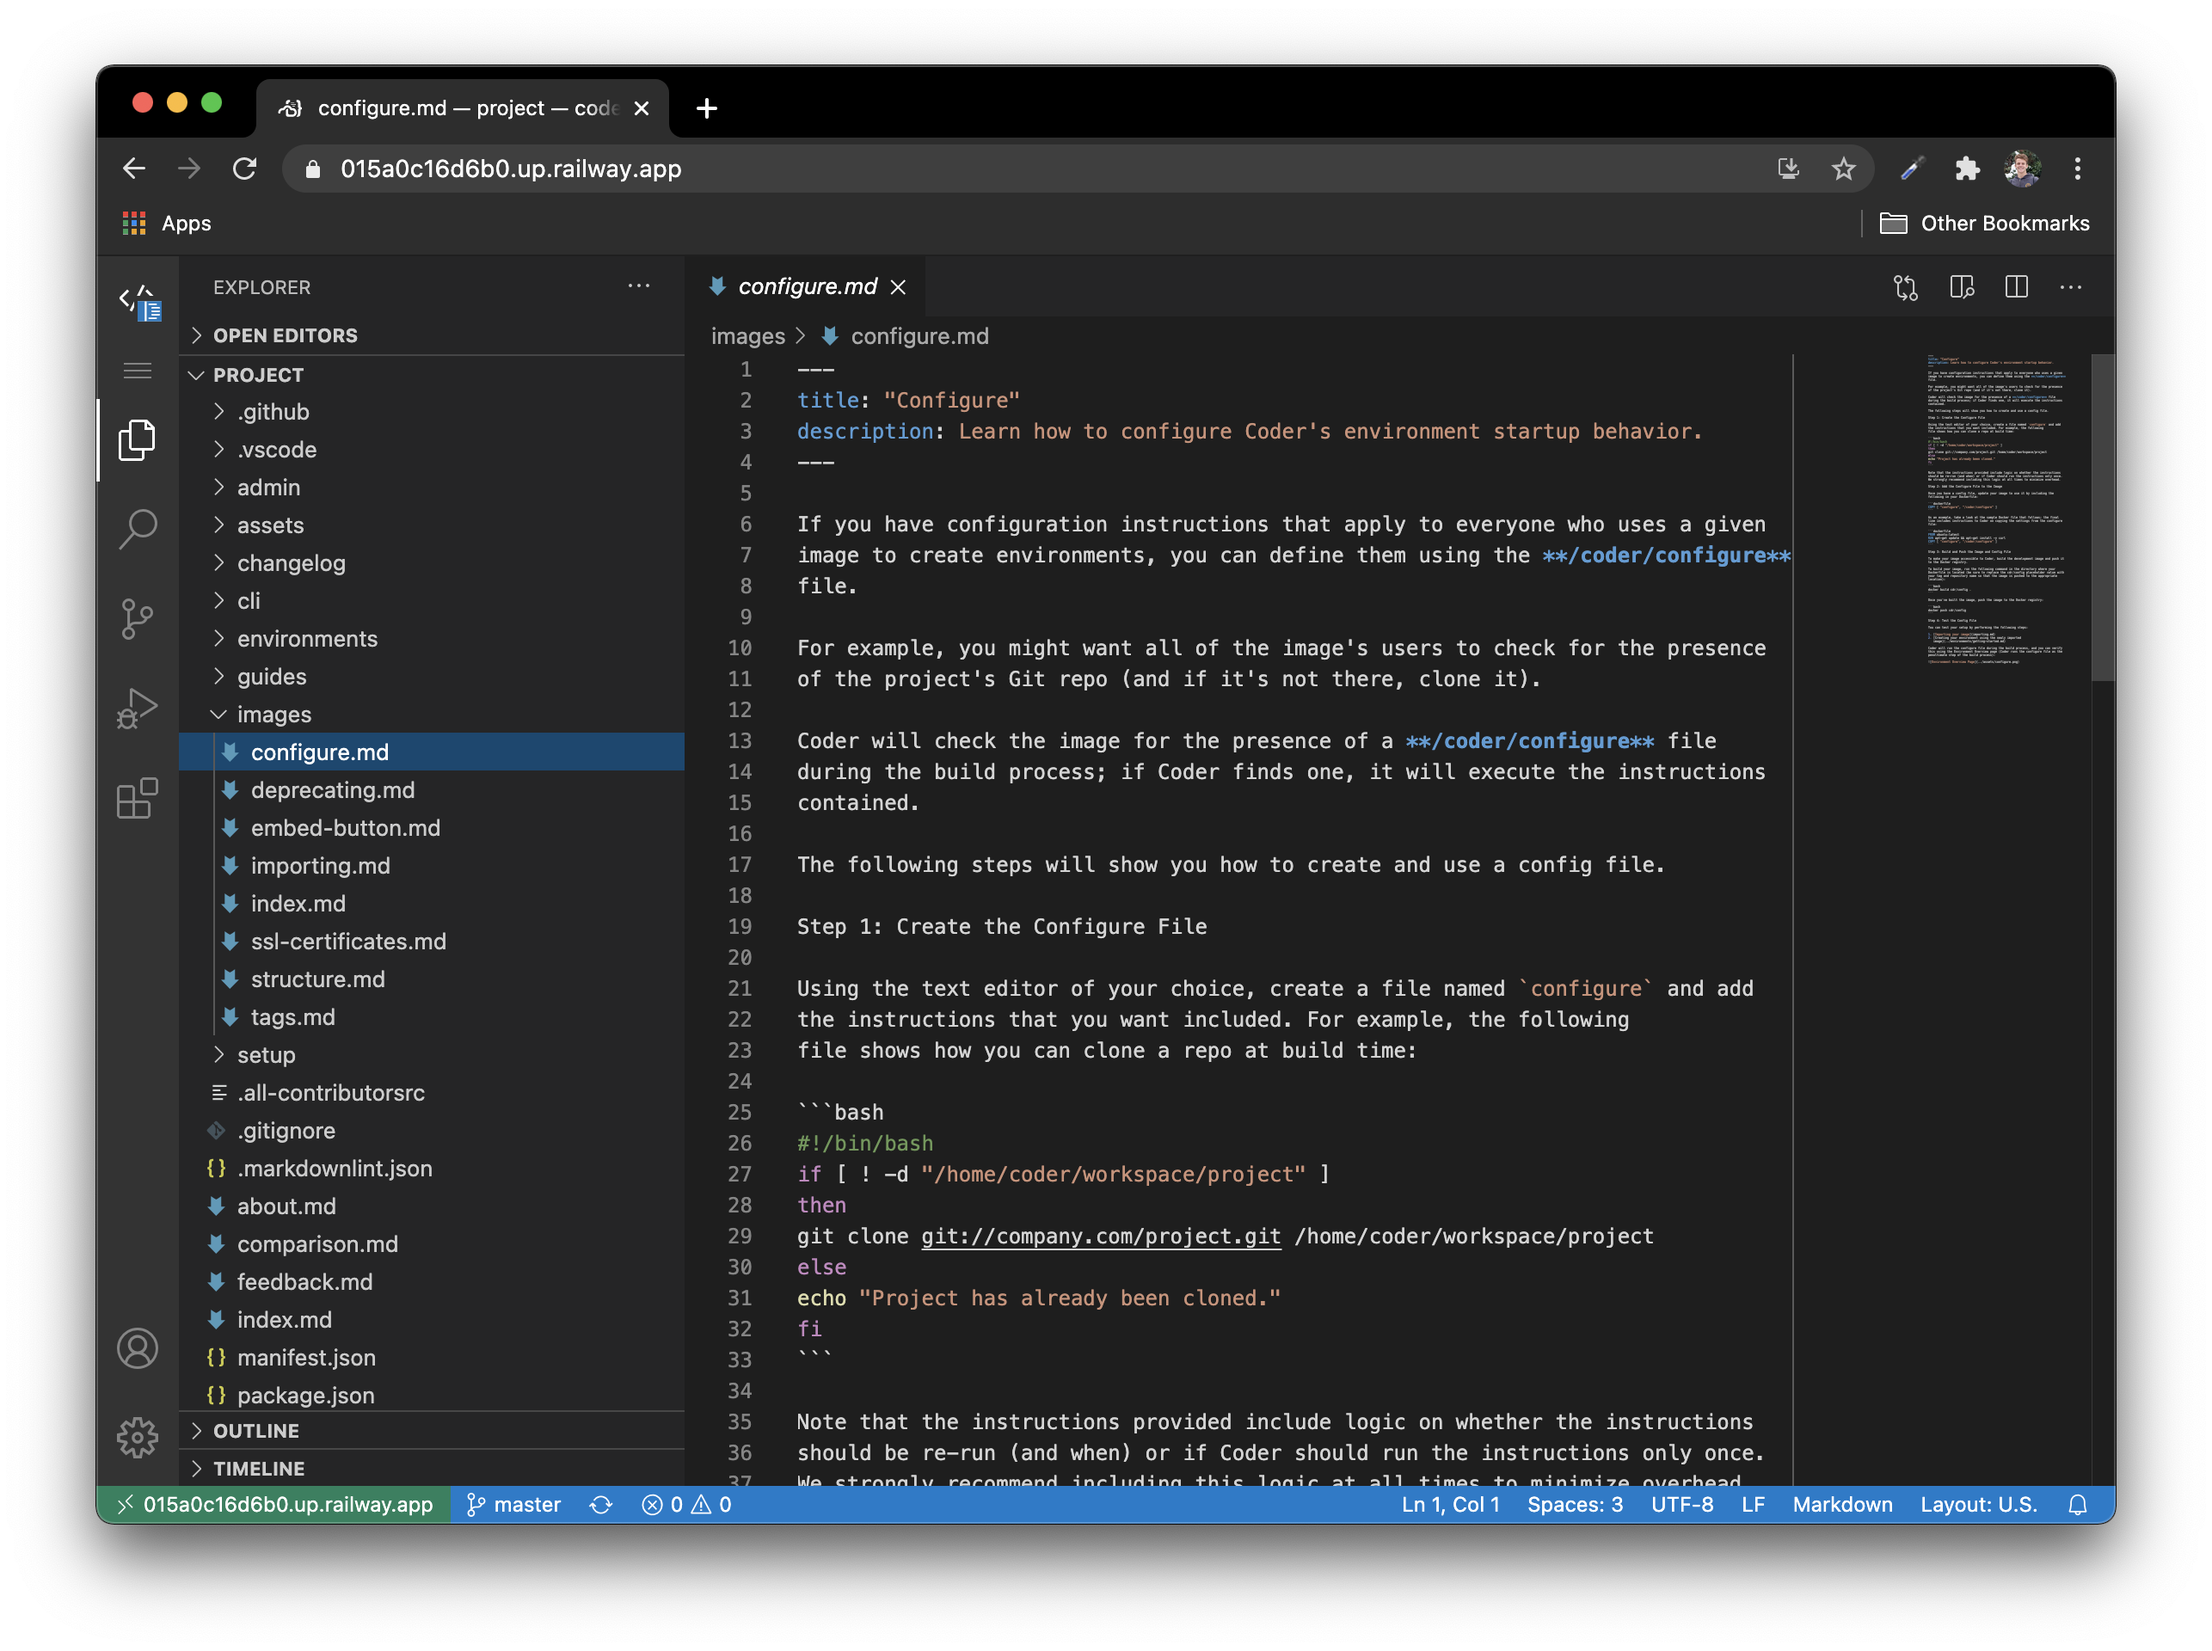
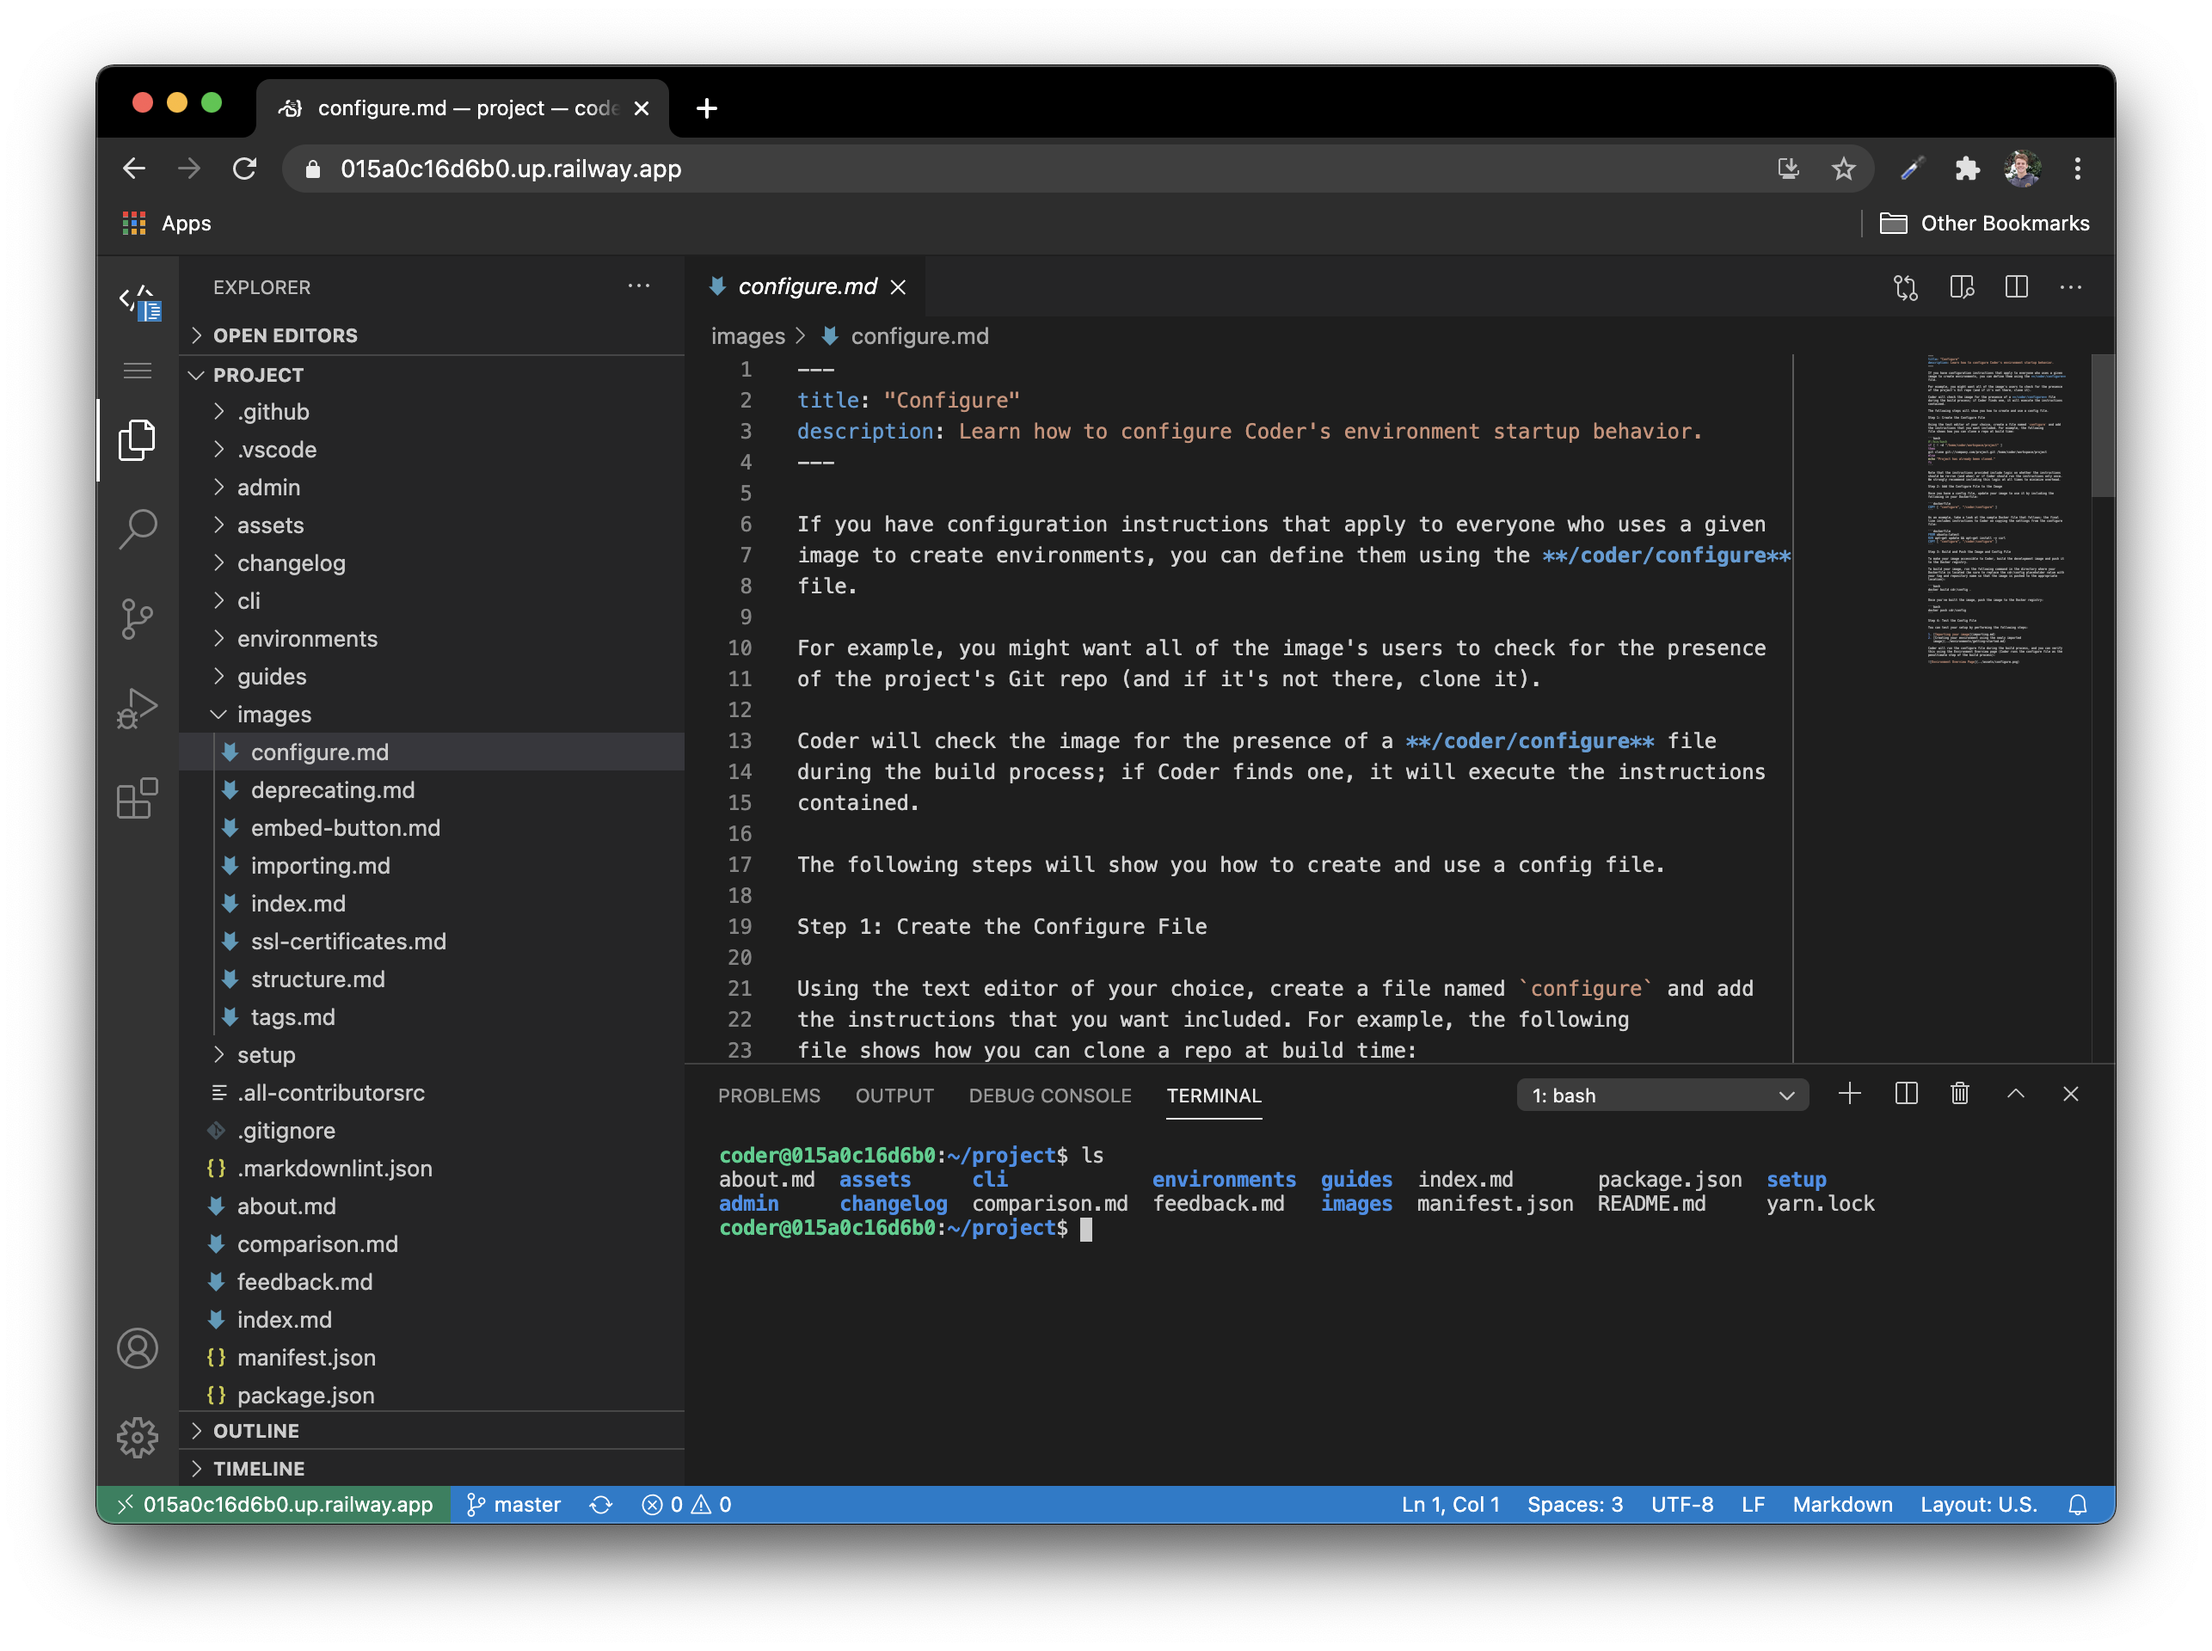
add git and rclone

diff --git a/README.md b/README.md
@@ -9,3 +9,7 @@ To launch your code-server environment, click the button below and log in with G
 It will ask you to make a new repo to store this image, so you can add additional software to your repo's `Dockerfile` in the future.
 
 ![code-server running inside railway.app](img/code-server-railway.png)
+
+## Todo:
+
+- [ ] Add ability to persist files with rclone
